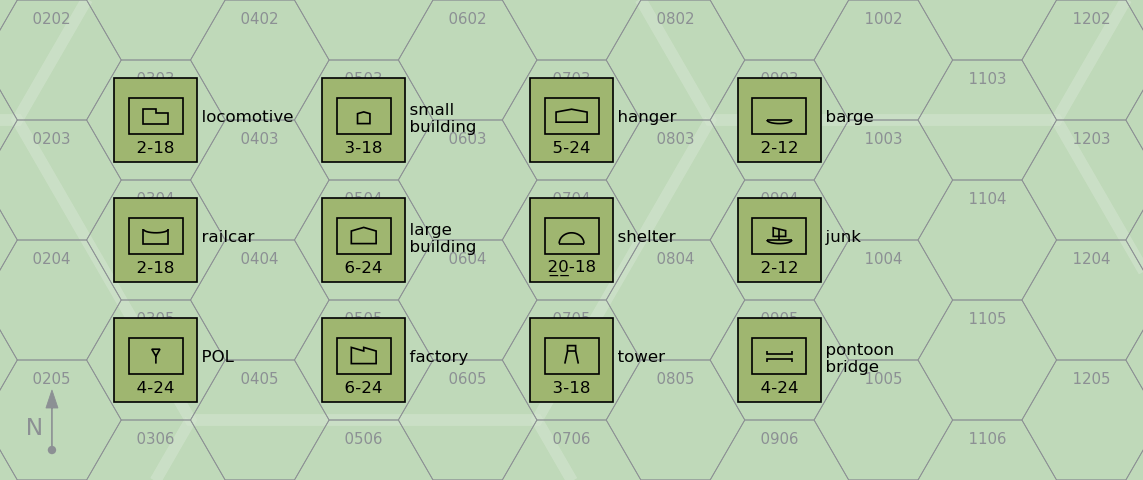
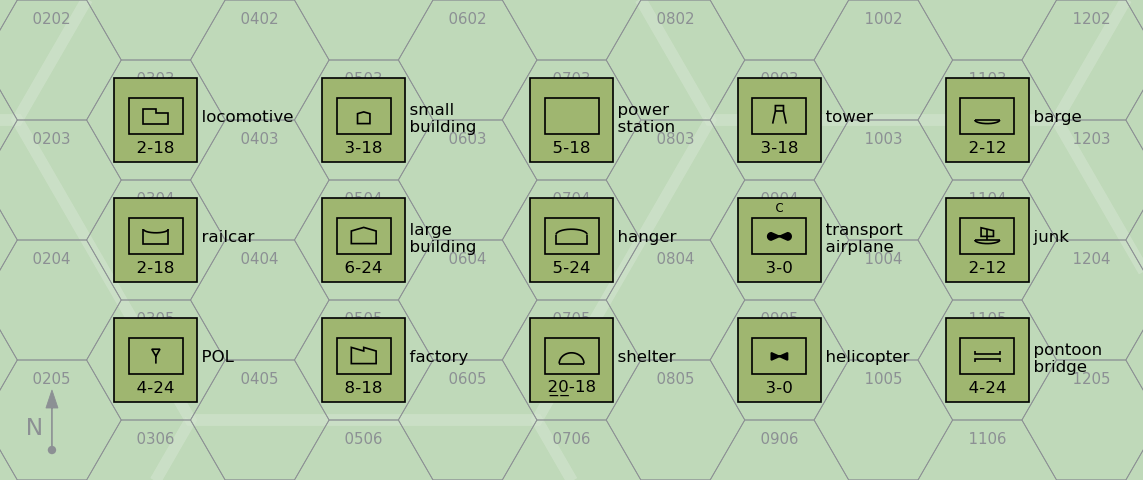
Revise ground targets

diff --git a/groundunitdatatables/groundunitdata.tex b/groundunitdatatables/groundunitdata.tex
@@ -6,25 +6,26 @@
 \input{../src/glass/aircraftdata/style.tex}
 
 \runningtitle{Ground Unit Data}
-\setcounter{secnumdepth}{0} 
-\setcounter{tocdepth}{1} 
+\setcounter{secnumdepth}{0}
+\setcounter{tocdepth}{1}
 
 \setlength{\tabcolsep}{0.4em}
 
-\newcommand{\groundunittype}[1]{\subsection{#1}}
-
 \begin{document}
 
-\title{Air Power Ground Unit Data}
+\title{Air Power Ground Unit and Ground Target Data}
 \author{Alan Watson Forster}
-\date{19 September 2025}
+\date{10 November 2025}
 
 \maketitle
 
 \twocolumn
-\section{Ground Units}
 
-The document describes the properties of ground units in the game and their correspondence with real combat formations.
+\section{Introduction}
+
+The document describes the properties of ground units and ground target in the game. Ground \emph{units} are combat formations such as infantry, armor, AAA, SAM launchers, and radars. Ground \emph{targets} are infrastructure such as bridges and buildings.
+
+\section{Ground Units}
 
 \paragraph{Properties.}
 All ground units have these properties: an echelon; a defense strength; a classification as a hard or soft target; a sighting range in hexes; and the VPs awarded for K/2D/D damage. Many units also have properties related to their air-defense capabilities.
@@ -47,9 +48,9 @@ Infantry units and towed units may be associated with a vehicular transport unit
 
 \paragraph{Representation.}
 
-Figures \ref{figure:ground-combat-units}, \ref{figure:aaa-units}, and \ref{figure:sam-launcher-units} show the graphical representation of the ground-combat units. 
+Figures \ref{figure:ground-combat-units}, \ref{figure:aaa-units}, and \ref{figure:sam-launcher-units} show the graphical representation of the ground-combat units.
 
-The representation mainly uses NATO symbols, including those for infantry, armor, air defense, guns, missiles, tube artillery, and rocket artillery. Two additions are that a rectangle denotes trucks and other mobile units and the letter T designates a transport capacity (e.g., APCs, IFVs, and trucks). 
+The representation mainly uses NATO symbols, including those for infantry, armor, air defense, guns, missiles, tube artillery, and rocket artillery. Two additions are that a rectangle denotes trucks and other mobile units and the letter T designates a transport capacity (e.g., APCs, IFVs, and trucks).
 
 The letters H, M, and L in a lower position denote heavy, medium, and light, and refer to the protection class (for AFV units), the AAA class (for AAA units), or the load capacity (for trucks).
 
@@ -234,7 +235,6 @@ AAA units are specialized in the destruction of attacking aircraft with guns. Ta
     \label{table:aaa-units}
 \end{table*}
 
-
 \begin{figure*}
     \centering
     \includegraphics[width=0.8\linewidth]{figure-aaa.png}
@@ -242,14 +242,12 @@ AAA units are specialized in the destruction of attacking aircraft with guns. Ta
     \label{figure:aaa-units}
 \end{figure*}
 
-\section{Ground Targets}
+\section{SAM Launcher Units}
 
-\begin{figure*}
-    \centering
-    \includegraphics[width=0.8\linewidth]{figure-ground-targets.png}
-    \caption{Ground Targets}
-    \label{figure:grount-targets}
-\end{figure*}
+\section{Radar Units}
+\section{CCU Units}
+
+\section{Ground Targets}
 
 \begin{table*}
     \caption{Ground Targets}
@@ -259,10 +257,28 @@ AAA units are specialized in the destruction of attacking aircraft with guns. Ta
     \label{table:ground-targets}
 \end{table*}
 
+\begin{figure*}
+    \centering
+    \includegraphics[width=0.8\linewidth]{figure-ground-targets.png}
+    \caption{Ground Targets}
+    \label{figure:ground-targets}
+\end{figure*}
+
+\paragraph{Properties.}
+
+All ground targets have these properties: a defense strength; a classification as a hard or soft target; a sighting range in hexes; and the VPs awarded for K/2D/D damage. These properties are shown in Table~\ref{table:ground-targets}.
+
+\paragraph{Representation.}
+
+Some ground targets are represented by counters and others are represented by features on the maps. Figure \ref{figure:ground-targets} show the graphical representation of the counters, which mainly uses adapted NATO symbols.
+
+\paragraph{Bridges.}
+
+Unless otherwise indicated in the scenario notes, a major bridge is one that extends over two of more hexes, a minor bridge is one that is confined to a single hex, and a small bridge is where a road crosses a river without a bridge being marked on the map.
+
 \end{document}
 
 \subsection{SAM Units}
-
 
 \begin{figure*}
     \centering
@@ -299,7 +315,6 @@ FCRs are air-defense fire-control radars for towed AAA. The generic FCR units ar
     \item \emph{mobile FCR-A/B/C/D}
 \end{itemize}
 
-
 \begin{table*}
     \caption{Generic Units}
     \centering
@@ -308,19 +323,19 @@ FCRs are air-defense fire-control radars for towed AAA. The generic FCR units ar
     \label{table:generic-units}
 \end{table*}
 
-\twocolumn[\section{AAA Units}]
+\twocolumn[
+\section{AAA Units}]
 
 Table \ref{table:aaa-units} summarizes the properties of the AAA units. Soft and hard defense strengths are suffixed with S and H, respectively. The sighting range is given in hexes.
 
 Figure \ref{figure:aaa-units} shows the graphical representation of the AAA units. Again, the representation uses NATO symbols.
 
-\twocolumn[\section{SAM Launcher Units}]
-
+\twocolumn[
+\section{SAM Launcher Units}]
 
 Table \ref{table:sam-launcher-units} summarizes the properties of the AAA units. Soft and hard defense strengths are suffixed with S and H, respectively. The sighting range is given in hexes.
 
 Figure \ref{figure:sam-launcher-units} shows the graphical representation of the AAA units. Again, the representation uses NATO symbols.
-
 
 \begin{table*}
     \caption{SAM Launcher Units}

diff --git a/groundunitdatatables/table-ground-targets.tex b/groundunitdatatables/table-ground-targets.tex
@@ -1,7 +1,8 @@
-\begin{tabularx}{0.5\linewidth}{Lccc}
+\begin{tabularx}{0.5\linewidth}{Lcccc}
 \toprule
 
             Type&
+            \vertical{Counter?}&
             \vertical{\begin{tabular}{@{}l@{}}Defense\\Strength\end{tabular}}&
             \vertical{\begin{tabular}{@{}l@{}}Sighting\\Range\end{tabular}}&
             \vertical{\begin{tabular}{@{}l@{}}VPs\\K/2D/D\end{tabular}}
@@ -9,39 +10,42 @@
         
 \midrule
 \addlinespace
-Locomotive&\wbox{00}{2}&\wbox{00}{18}&\wbox{00/00/00}{12/8/4}\\
-Railcar&\wbox{00}{2}&\wbox{00}{18}&\wbox{00/00/00}{5/3/2}\\
+Locomotive&Y&\wbox{00}{2}&\wbox{00}{18}&\wbox{00/00/00}{12/8/4}\\
+Railcar&Y&\wbox{00}{2}&\wbox{00}{18}&\wbox{00/00/00}{5/3/2}\\
 \addlinespace
-POL&\wbox{00}{4}&\wbox{00}{24}&\wbox{00/00/00}{15/10/5}\\
+POL&Y&\wbox{00}{4}&\wbox{00}{24}&\wbox{00/00/00}{15/10/5}\\
 \addlinespace
-Small Building&\wbox{00}{3}&\wbox{00}{18}&\wbox{00/00/00}{4/3/2}\\
-Large Building&\wbox{00}{6}&\wbox{00}{24}&\wbox{00/00/00}{7/5/3}\\
-Factory&\wbox{00}{6}&\wbox{00}{24}&\wbox{00/00/00}{20/14/7}\\
+Small Building&Y&\wbox{00}{3}&\wbox{00}{18}&\wbox{00/00/00}{4/3/2}\\
+Large Building&Y&\wbox{00}{6}&\wbox{00}{24}&\wbox{00/00/00}{7/5/3}\\
+Factory&Y&\wbox{00}{8}&\wbox{00}{18}&\wbox{00/00/00}{20/14/7}\\
+Power Station&Y&\wbox{00}{5}&\wbox{00}{18}&\wbox{00/00/00}{12/8/4}\\
 \addlinespace
-Barge&\wbox{00}{2}&\wbox{00}{12}&\wbox{00/00/00}{4/2/1}\\
-Junk&\wbox{00}{2}&\wbox{00}{12}&\wbox{00/00/00}{4/2/1}\\
+Barge&Y&\wbox{00}{2}&\wbox{00}{12}&\wbox{00/00/00}{4/2/1}\\
+Junk&Y&\wbox{00}{2}&\wbox{00}{12}&\wbox{00/00/00}{4/2/1}\\
 \addlinespace
-Hanger&\wbox{00}{5}&\wbox{00}{24}&\wbox{00/00/00}{8/6/4}\\
-Shelter&\wbox{00}{\underline{20}}&\wbox{00}{18}&\wbox{00/00/00}{12/8/5}\\
-Tower&\wbox{00}{3}&\wbox{00}{18}&\wbox{00/00/00}{5/3/2}\\
+Hanger&Y&\wbox{00}{5}&\wbox{00}{24}&\wbox{00/00/00}{8/6/4}\\
+Shelter&Y&\wbox{00}{\underline{20}}&\wbox{00}{18}&\wbox{00/00/00}{12/8/5}\\
+Tower&Y&\wbox{00}{3}&\wbox{00}{18}&\wbox{00/00/00}{5/3/2}\\
+Transport Airplane&Y&\wbox{00}{3}&\wbox{00}{0}&\wbox{00/00/00}{0/0/0}\\
+Helicopter&Y&\wbox{00}{3}&\wbox{00}{0}&\wbox{00/00/00}{0/0/0}\\
 \addlinespace
-Railroad Hex&\wbox{00}{6}&\wbox{00}{24}&\wbox{00/00/00}{5/3/2}\\
-Railyard Hex&\wbox{00}{10}&\wbox{00}{24}&\wbox{00/00/00}{12/7/2}\\
-Docks Hex&\wbox{00}{\underline{10}}&\wbox{00}{0}&\wbox{00/00/00}{8/4/3}\\
-Piers Hex&\wbox{00}{\underline{10}}&\wbox{00}{0}&\wbox{00/00/00}{8/4/3}\\
-Road Hex&\wbox{00}{8}&\wbox{00}{24}&\wbox{00/00/00}{2/1/0}\\
-Trail Hex&\wbox{00}{6}&\wbox{00}{12}\\
-Tunnel Entrance Hex&\wbox{00}{\underline{12}}&\wbox{00}{0}&\wbox{00/00/00}{10/4/1}\\
-Runway Hex&\wbox{00}{\underline{10}}&\wbox{00}{36}&\wbox{00/00/00}{8/6/4}\\
-City Hex&\wbox{00}{5}&\wbox{00}{48}&\wbox{00/00/00}{8/6/4}\\
-Town Hex&\wbox{00}{3}&\wbox{00}{36}&\wbox{00/00/00}{2/1/0}\\
-Village Hex&\wbox{00}{3}&\wbox{00}{36}&\wbox{00/00/00}{2/1/0}\\
+Railroad Hex&N&\wbox{00}{6}&\wbox{00}{24}&\wbox{00/00/00}{5/3/2}\\
+Railyard Hex&N&\wbox{00}{10}&\wbox{00}{24}&\wbox{00/00/00}{12/7/2}\\
+Docks Hex&N&\wbox{00}{\underline{10}}&\wbox{00}{36}&\wbox{00/00/00}{8/4/3}\\
+Piers Hex&N&\wbox{00}{\underline{10}}&\wbox{00}{36}&\wbox{00/00/00}{8/4/3}\\
+Road Hex&N&\wbox{00}{8}&\wbox{00}{24}&\wbox{00/00/00}{2/1/0}\\
+Trail Hex&N&\wbox{00}{6}&\wbox{00}{12}\\
+Tunnel Entrance Hex&N&\wbox{00}{\underline{12}}&\wbox{00}{0}&\wbox{00/00/00}{10/4/1}\\
+Runway Hex&N&\wbox{00}{\underline{10}}&\wbox{00}{36}&\wbox{00/00/00}{8/6/4}\\
+City Hex&N&\wbox{00}{5}&\wbox{00}{48}&\wbox{00/00/00}{8/6/4}\\
+Town Hex&N&\wbox{00}{3}&\wbox{00}{36}&\wbox{00/00/00}{2/1/0}\\
+Village Hex&N&\wbox{00}{3}&\wbox{00}{36}&\wbox{00/00/00}{2/1/0}\\
 \addlinespace
-Major Bridge&\wbox{00}{\underline{18}}&\wbox{00}{48}&\wbox{00/00/00}{30/20/10}\\
-Minor Bridge&\wbox{00}{12}&\wbox{00}{36}&\wbox{00/00/00}{18/12/6}\\
-Small Bridge&\wbox{00}{6}&\wbox{00}{24}&\wbox{00/00/00}{6/4/1}\\
-Pontoon Bridge&\wbox{00}{4}&\wbox{00}{24}&\wbox{00/00/00}{6/3/1}\\
-Dam&\wbox{00}{\underline{30}}&\wbox{00}{0}&\wbox{00/00/00}{15/10/5}\\
+Major Bridge&N&\wbox{00}{\underline{18}}&\wbox{00}{48}&\wbox{00/00/00}{30/20/10}\\
+Minor Bridge&N&\wbox{00}{12}&\wbox{00}{36}&\wbox{00/00/00}{18/12/6}\\
+Small Bridge&N&\wbox{00}{6}&\wbox{00}{24}&\wbox{00/00/00}{6/4/1}\\
+Pontoon Bridge&Y&\wbox{00}{4}&\wbox{00}{24}&\wbox{00/00/00}{6/3/1}\\
+Dam&N&\wbox{00}{\underline{20}}&\wbox{00}{24}&\wbox{00/00/00}{15/10/5}\\
 \addlinespace
 \bottomrule
 \end{tabularx}

diff --git a/src/glass/draw.py b/src/glass/draw.py
@@ -2785,23 +2785,35 @@ def _drawgroundunitincanvas(
 
         def drawhangarsymbol():
             dx = trucksymboldx * 1.25
-            dy = trucksymboldy / 1.25
-            fy = 0.25
+            dy = trucksymboldy
+            fy = 0.75
+            theta = range(0, 181)
 
-            _drawpolygonincanvas(
+            def _dx(theta):
+                return dx * _cosd(theta)
+
+            def _dy(theta):
+                return dy + fy * dy * (_sind(theta) - 1)
+
+            _drawlinesincanvas(
+                list([x + _dx(theta) for theta in theta]),
+                list([y + _dy(theta) for theta in theta]),
+                linecolor=linecolor,
+                linewidth=groundunitlinewidth,
+                zorder=zorder,
+            )
+            _drawlinesincanvas(
                 [
                     x - dx,
                     x - dx,
-                    x,
                     x + dx,
                     x + dx,
                 ],
                 [
+                    y + dy * (1 - fy),
                     y - dy,
-                    y + (1 - fy) * dy,
-                    y + (1 + fy) * dy,
-                    y + (1 - fy) * dy,
                     y - dy,
+                    y + dy * (1 - fy),
                 ],
                 linecolor=linecolor,
                 linewidth=groundunitlinewidth,

diff --git a/src/glass/groundunitdata/Ground Targets.md b/src/glass/groundunitdata/Ground Targets.md
@@ -1,0 +1,125 @@
+# Ground Targets
+
+## City
+
+- Air Strike "built-up area" in TEC is 5S-36
+- TSOH city in TEC has 5S-48 (preferred)
+
+## Dam
+
+- Air Strike TEC has 20H-24 (preferred)
+- Air Strike scenario G-12 has 30H
+
+## Factory
+
+- Air Strike counters have 8S-18
+
+## Hangar
+
+- Air Strike and TSOH counters have 5S-24
+
+## Helicopter
+
+- Air Strike Scenario H-22
+- Defense is 3S
+- Sighting range is not given
+
+## Large Building
+
+- Air Strike and TSOH counters have 6S-24
+
+## Locomotive
+
+- Air Strike and TSOH counters have 2S-18
+
+## Major Bridge
+
+- Air Strike scenario G-13: 30H
+- Air Strike "bridge" in TEC is 18H-36
+- TSOH TEC has: 18H-48 (preferred)
+
+## Minor Bridge
+
+- Air Strike "bridge" in TEC is 18H-36
+- TSOH TEC has: 12S-36 (preferred)
+
+## Pier/Dock
+
+- Air Strike TEC has 10H-36
+
+## POL
+
+- Air Strike and TSOH counters have 4S-24
+
+## Pontoon Bridge
+
+- Air Strike counters have 4S-24
+
+## Power Station
+
+- Air Strike counters have 5S-18
+
+## Railcar
+
+- Air Strike and TSOH counters have 2S-18
+
+## Railyard
+
+- Air Strike scenario G-12 says treat as roads.
+- TSOH errata for scenaro V-21 says 10S-24
+
+## Railroad
+
+- TSOH TEC gives 6S-24
+
+## Road
+
+- Air Strike TEC has 4S-24
+- TSOH TEC has 8S-24 (prefered)
+
+## Runway
+
+- Air Strike TEC has 5H-36
+- TSOH TEC has 10H-36 (preferred)
+
+## Sampan
+
+- TSOH counters have 2-12
+
+## Shelter
+
+- Air Strike counters have 20H-18
+
+## Small Bridge
+
+- TSOH counter has: 6-24
+
+## Small Building
+
+- Air Strike counters have 3S-18
+
+## Tower
+
+- Air Strike and TSOH counters have 3S-18
+
+## Town/Village
+
+- Air Strike "urban area" in TEC is 3S-36
+- TSOH town/village in TEC has 3S-36
+
+## Trail
+
+- Air Strike TEC has 4S-24
+- TSOH TEC has 6S-12 (preferred)
+- Neither Air Strike nor TSOH give VPs.
+
+## Transport Airplane
+
+- Air Strike Scenario S-5/H-22
+- Defense is 3S
+
+## Tunnel Entrances
+
+- Air Strike scenario G-12: defense is 15H
+- Air Strike VP chart: defense is 12H (preferred)
+- Neither gives a sighting range.
